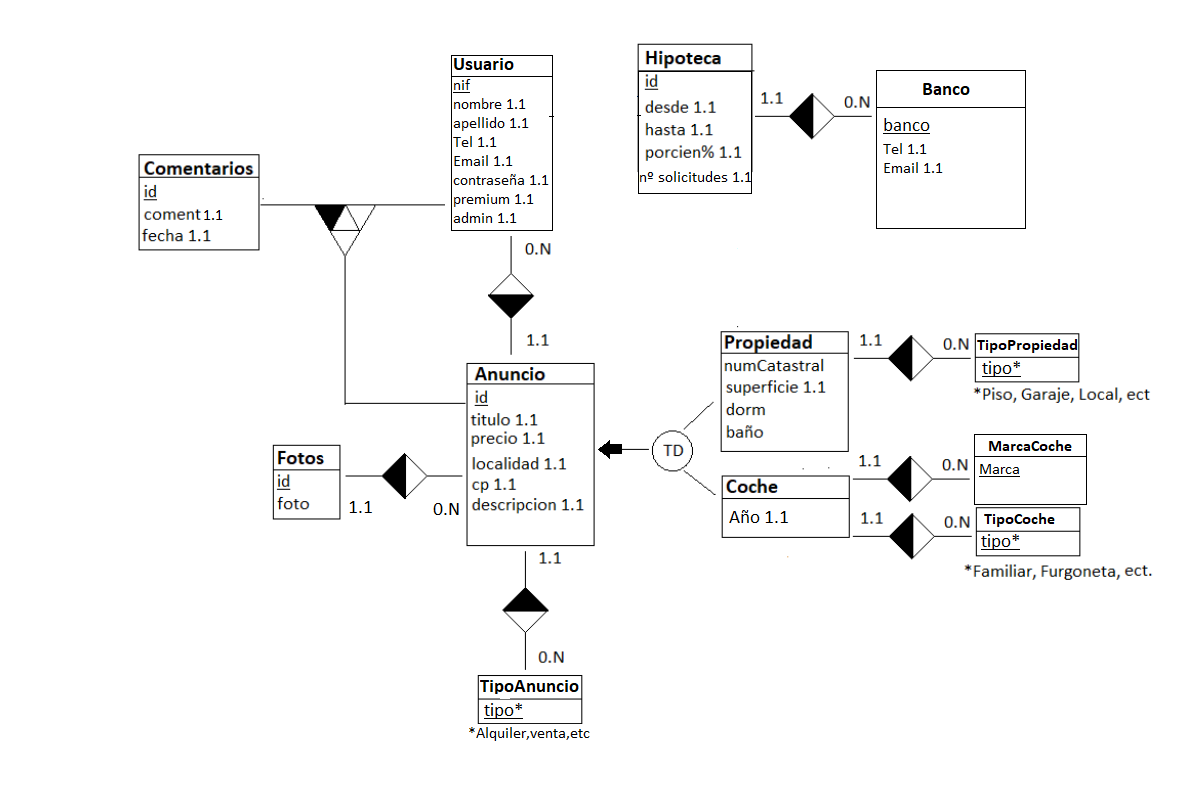
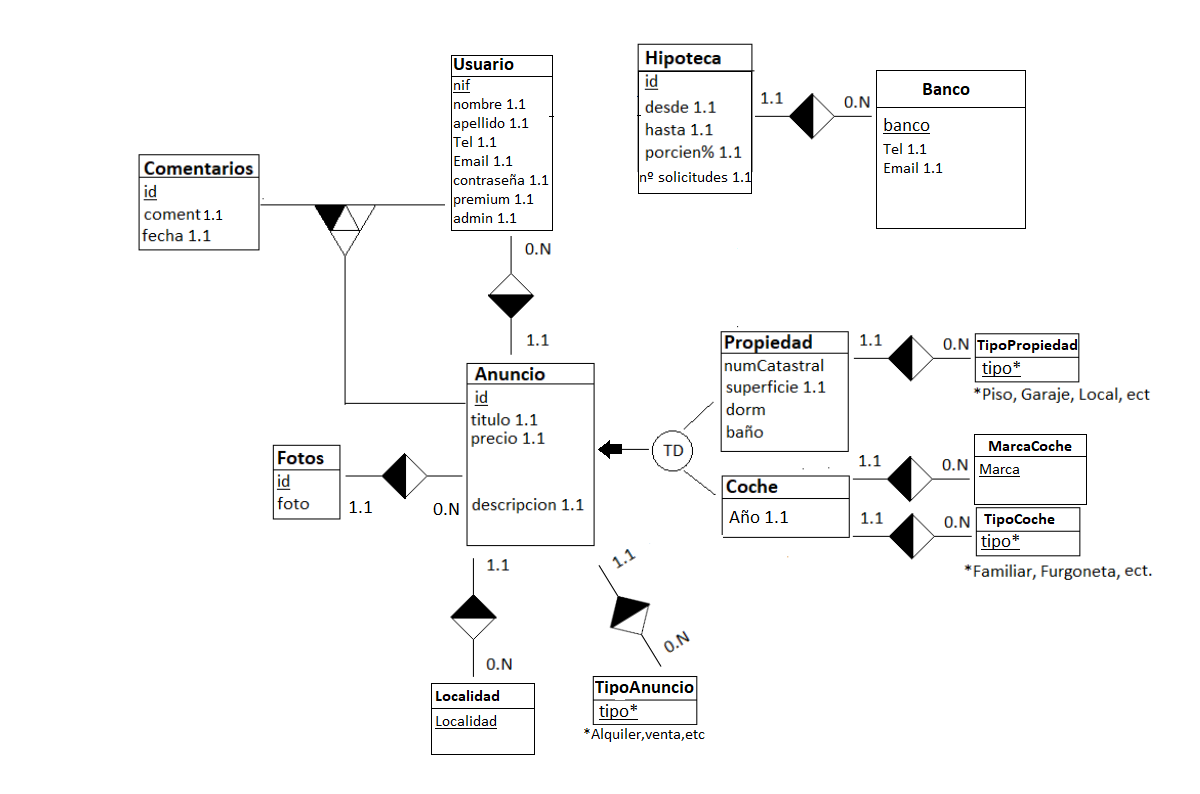
Creacion de Busqueda.aspx, Busqueda.css. Actualizado la EER y cambios minimos de Anuncio.aspx.

diff --git a/UserInterface/css/Busqueda.css b/UserInterface/css/Busqueda.css
@@ -1,0 +1,15 @@
+body {
+    background-color: #f1f1f1;
+    font-family: 'Lucida Sans Unicode' !important;
+}
+
+.PanelIzquierdo {
+    width: 40%;
+    margin: auto auto auto 13px;
+}
+
+.PanelBusqueda{
+    width:80%;
+    margin:auto 13px auto auto;
+
+}

diff --git a/UserInterface/Busqueda.aspx.designer.cs b/UserInterface/Busqueda.aspx.designer.cs
@@ -1,0 +1,17 @@
+//------------------------------------------------------------------------------
+// <auto-generated>
+//     This code was generated by a tool.
+//
+//     Changes to this file may cause incorrect behavior and will be lost if
+//     the code is regenerated. 
+// </auto-generated>
+//------------------------------------------------------------------------------
+
+namespace UserInterface
+{
+
+
+    public partial class Busqueda
+    {
+    }
+}

diff --git a/UserInterface/Busqueda.aspx.cs b/UserInterface/Busqueda.aspx.cs
@@ -1,0 +1,17 @@
+using System;
+using System.Collections.Generic;
+using System.Linq;
+using System.Web;
+using System.Web.UI;
+using System.Web.UI.WebControls;
+
+namespace UserInterface
+{
+    public partial class Busqueda : System.Web.UI.Page
+    {
+        protected void Page_Load(object sender, EventArgs e)
+        {
+
+        }
+    }
+}
